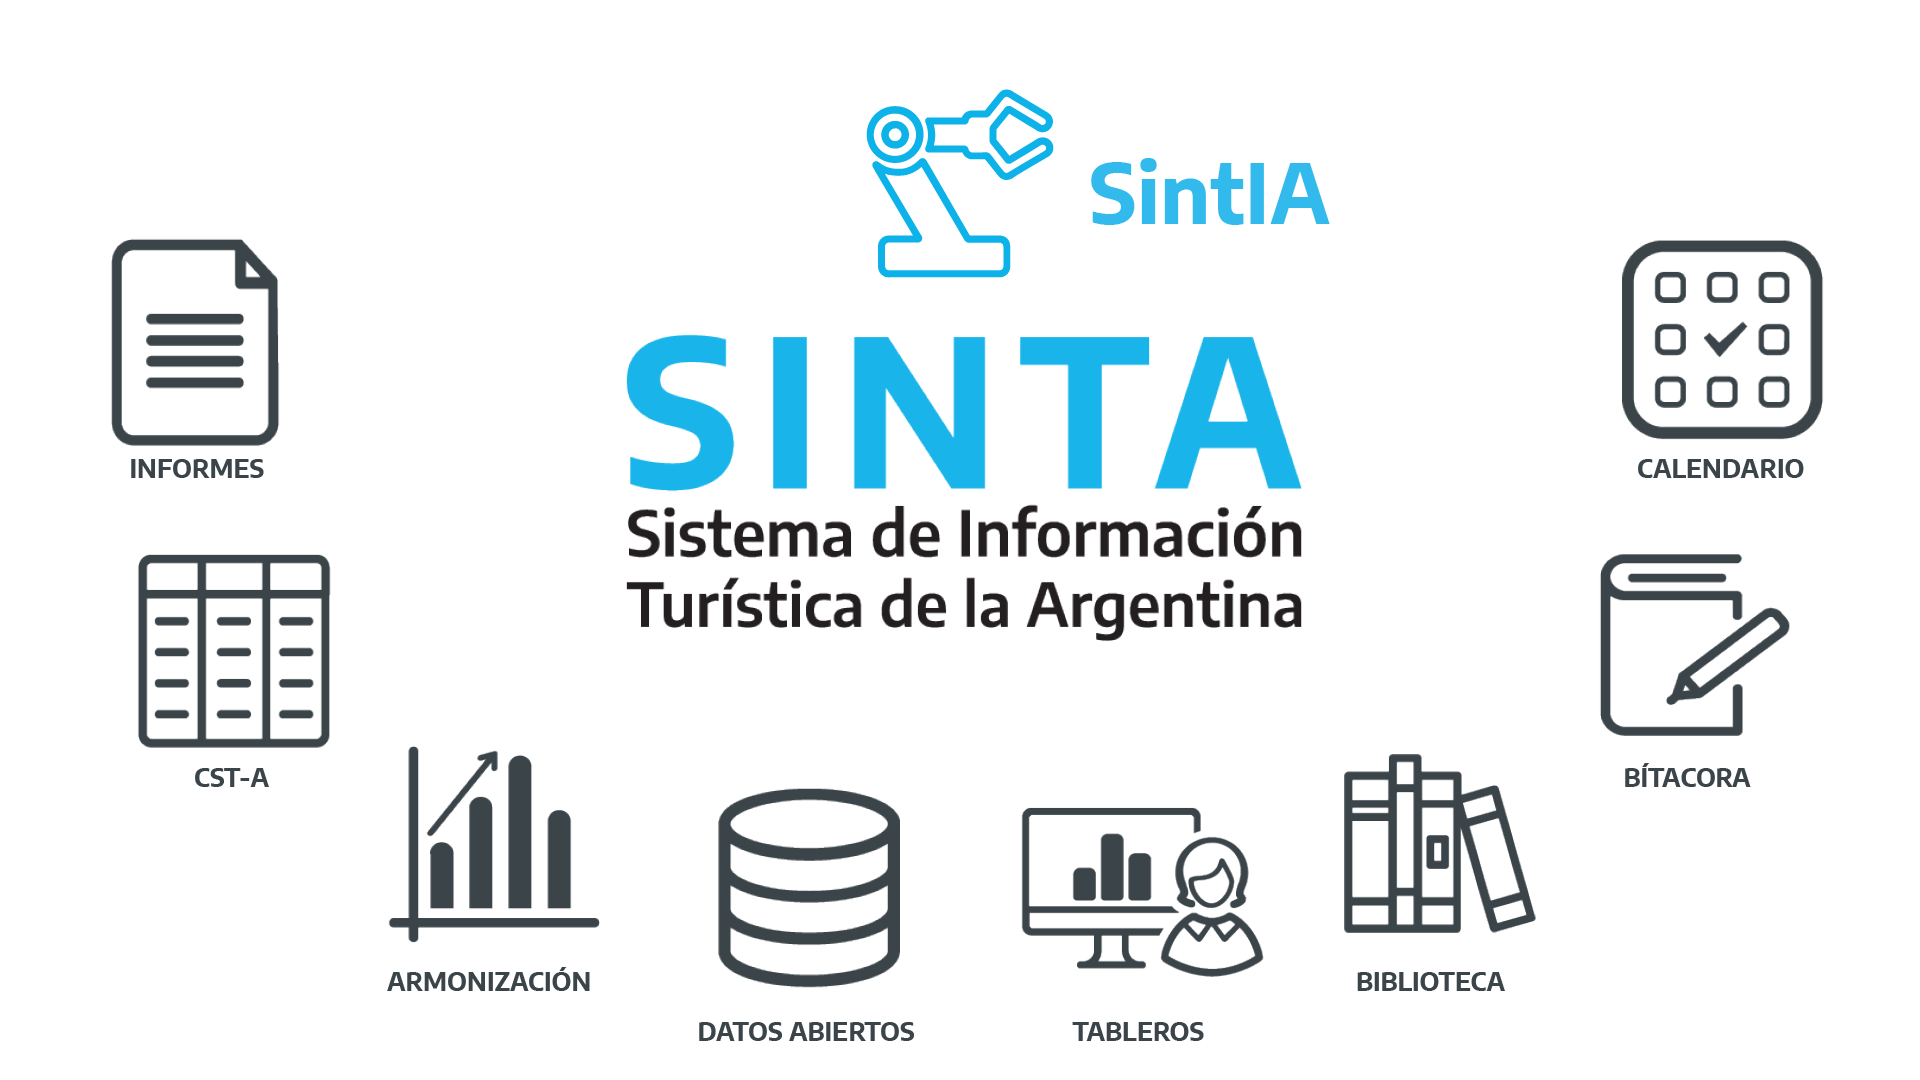
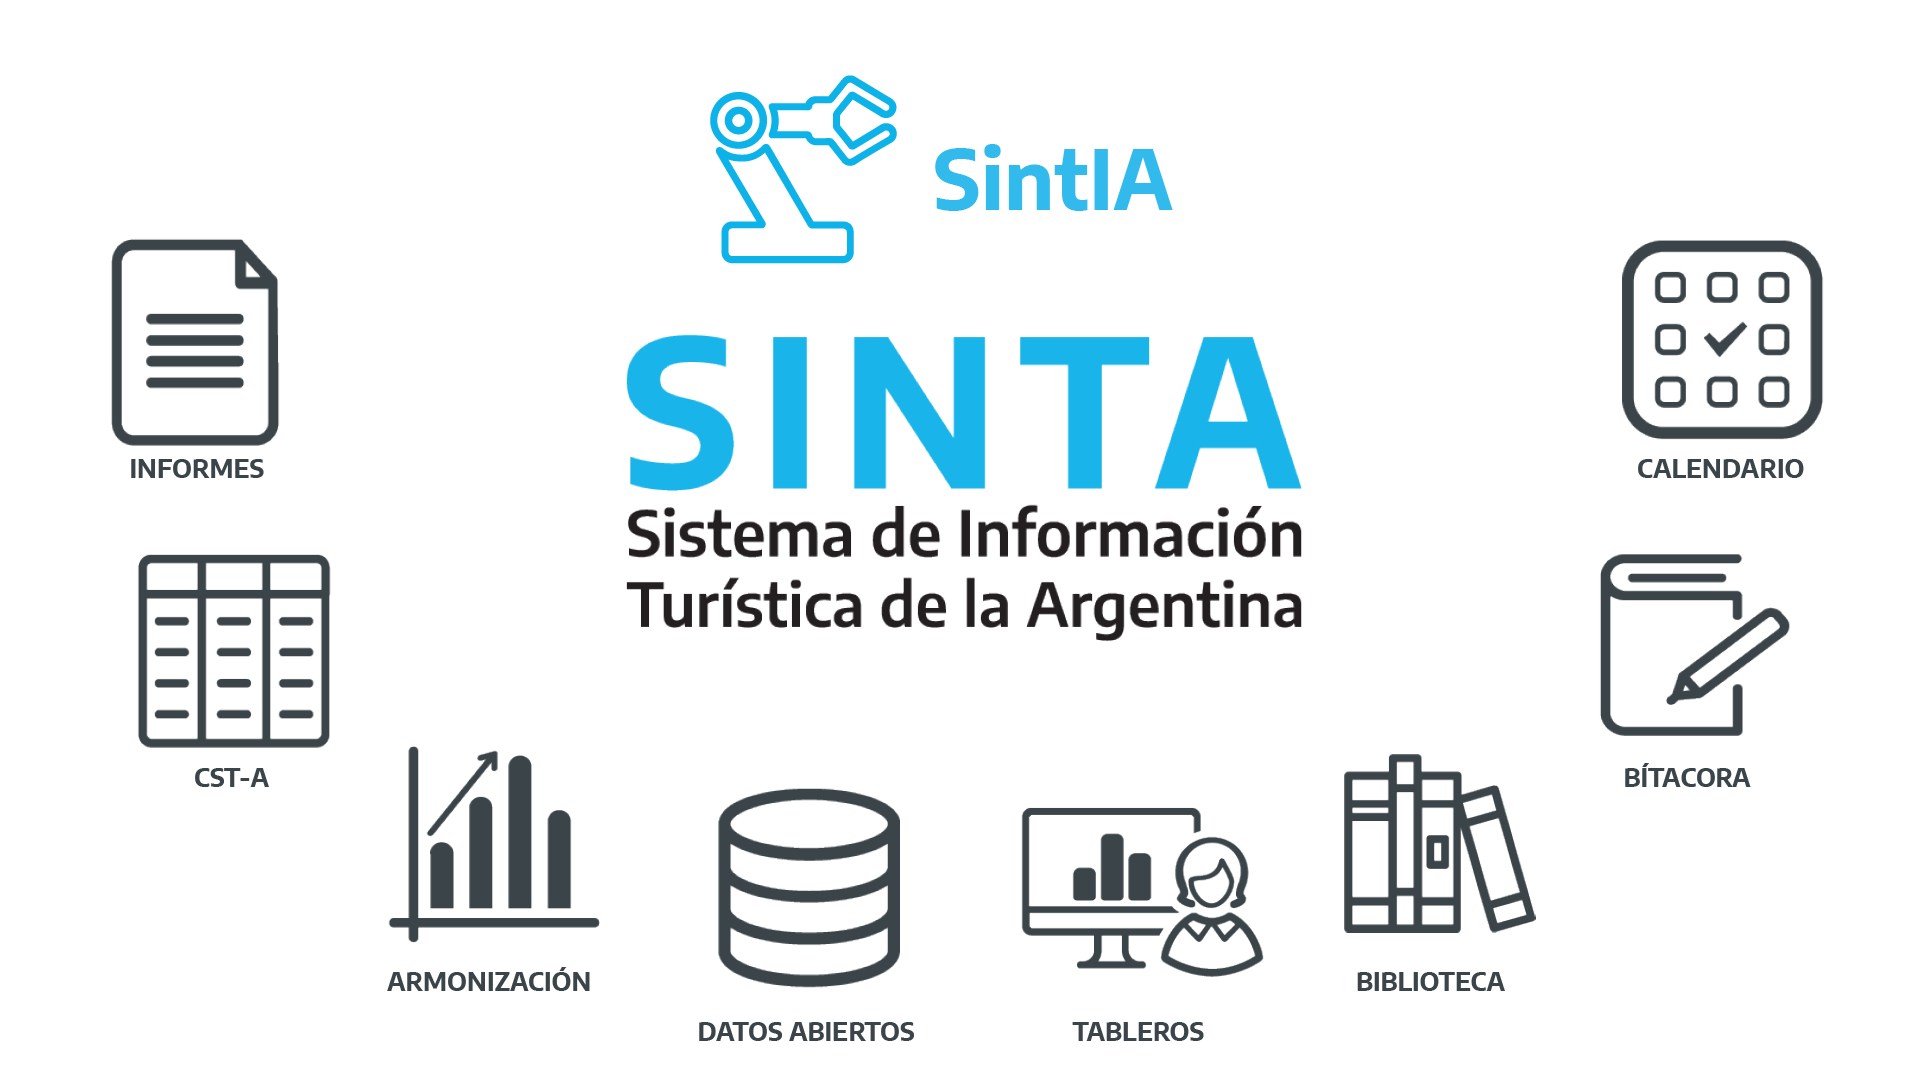
ULTIMOS RETOQUES DE CROPEO

Changed region(s): [[0.3438, 0.0611, 0.6875, 0.275]]

diff --git a/mdq29Sept2022.html b/mdq29Sept2022.html
@@ -189,7 +189,7 @@ class: inverse center middle
 ###https://armonizacion.yvera.tur.ar/
 ![](imgs/armonizacion2.png)
 ---
-#&lt;dataTUR&gt;
+###&lt;dataTUR&gt;
 ![](imgs/datatur.png)
 ---
 ![](imgs/sinta4.png)
